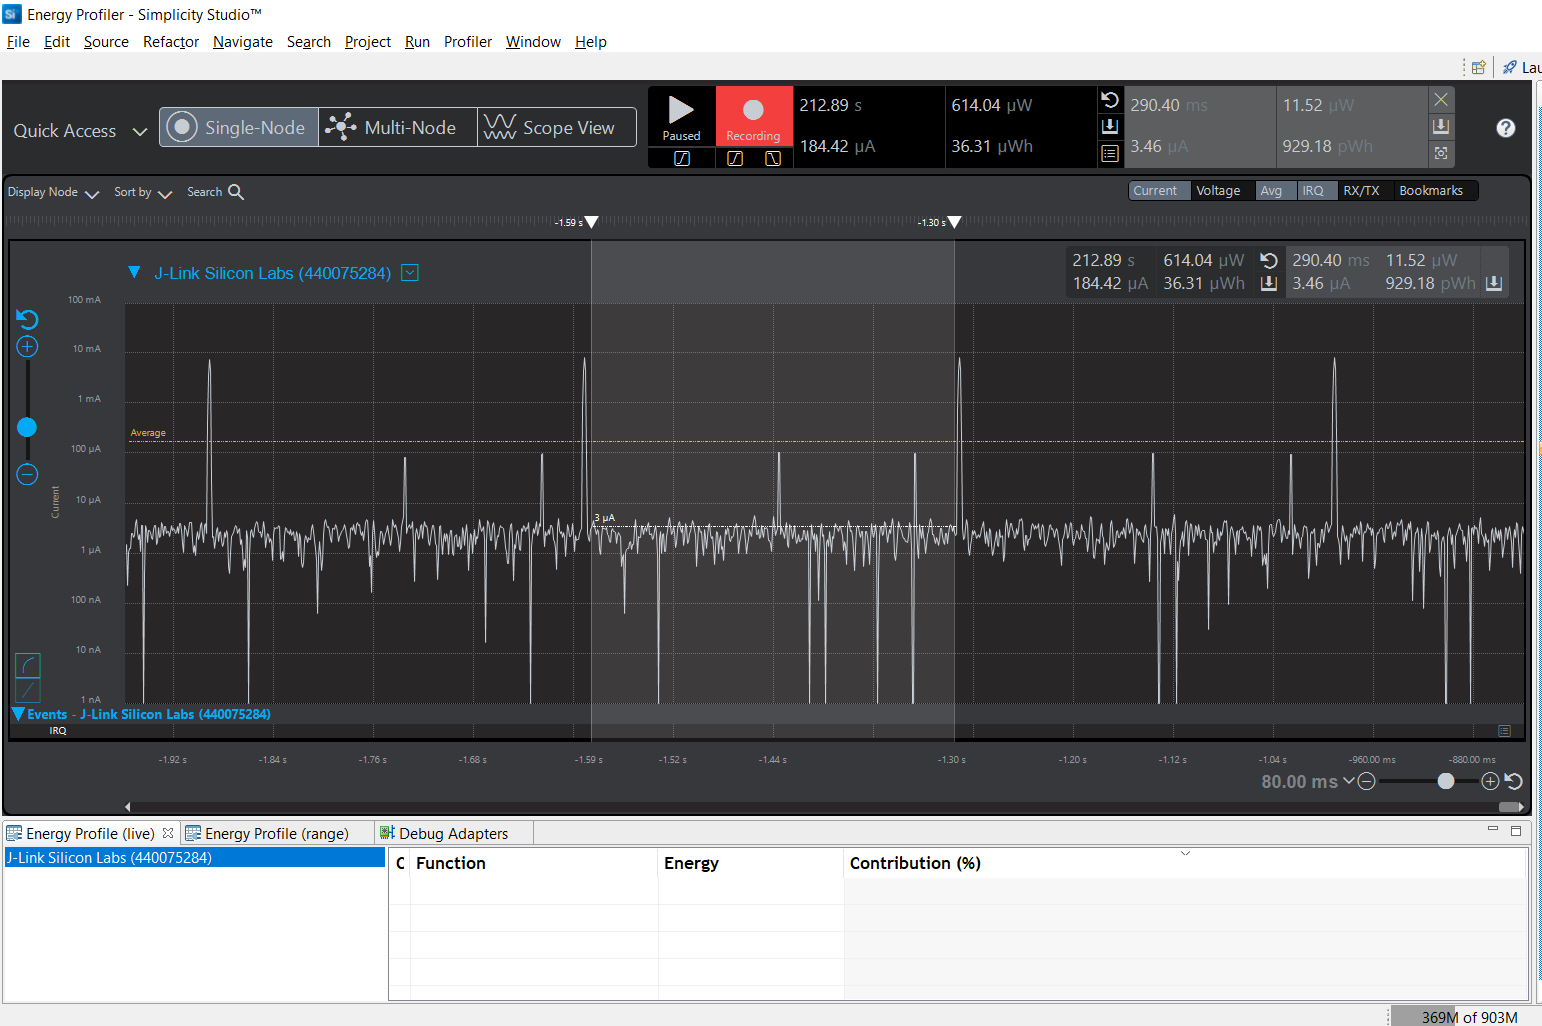
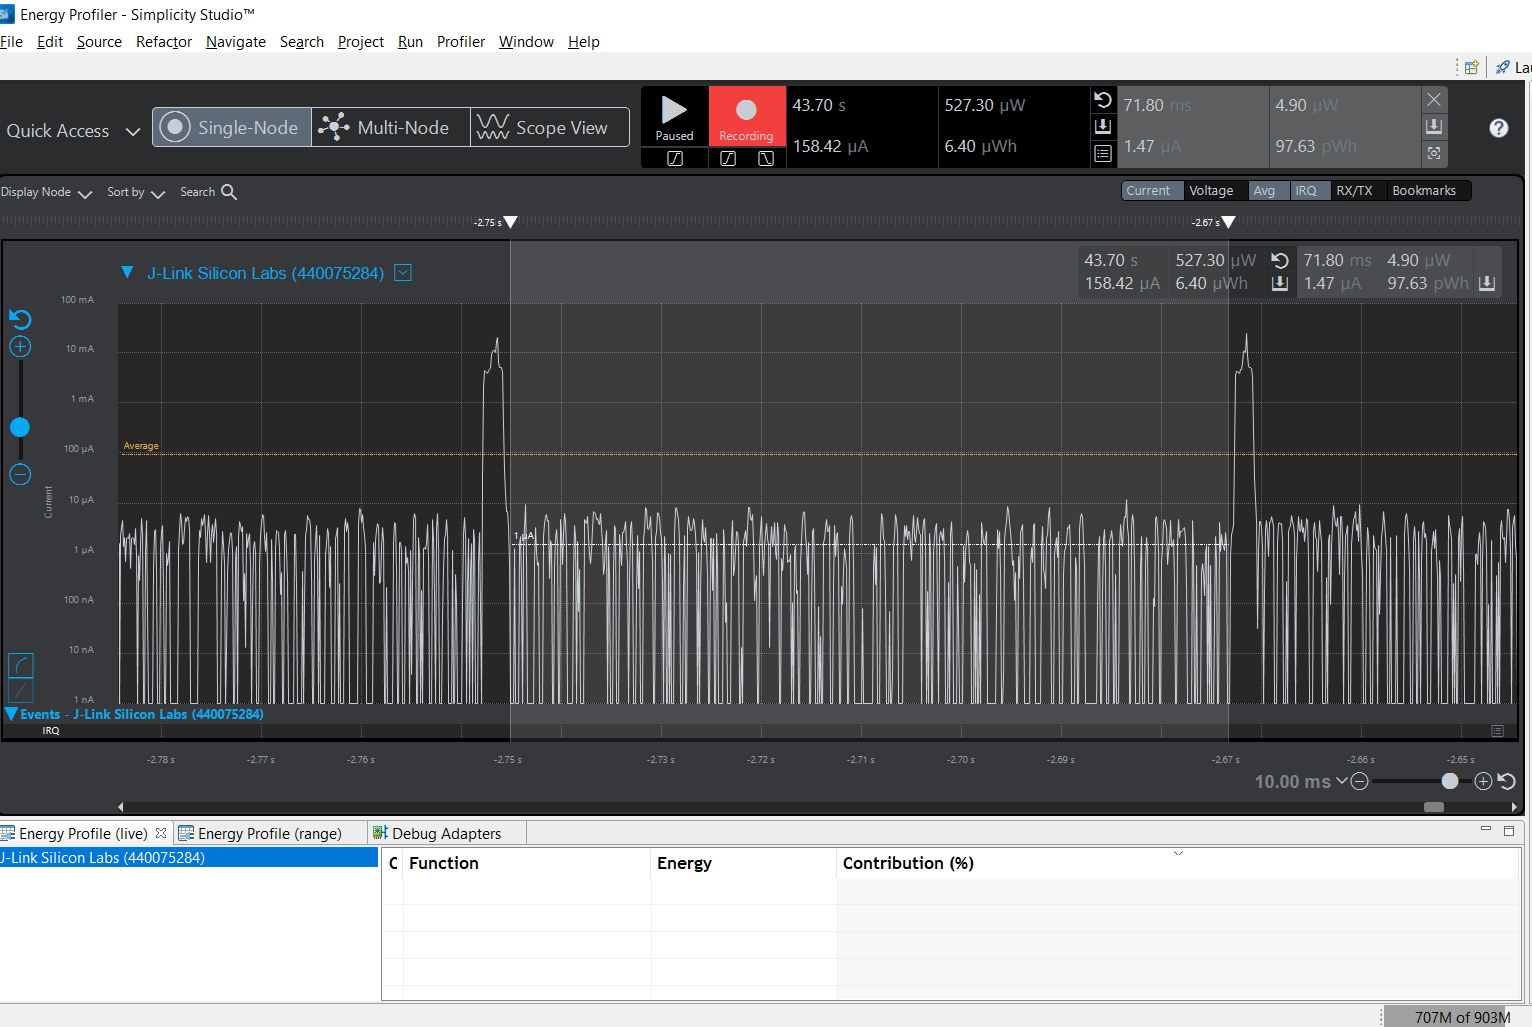
Added slave latency energy profiler trace and updated questions MD

diff --git a/questions/Assignment5-HealthThermometerProfile-BLE.md b/questions/Assignment5-HealthThermometerProfile-BLE.md
@@ -20,18 +20,19 @@ See [Mastering Markdown](https://guides.github.com/features/mastering-markdown/)
    ![peak_current_of_advertisement](screenshots/assignment5/peak_current_of_advertisement.PNG)  
 
 4. Provide screen shot showing the connection interval settings. Do they match the values you set in your slave(server) code or the master's(client) values?.
-   <br>Screenshot: 298mS. Yes, they do match as the Client acknowledges the connection parameters required by the Server. (300mS is the slave latency and most 
-   connection events are observed to occur at this time period. Occaisionally, the connection interval is noted to be 75mS.
+   <br>Screenshot: 75mS. Yes, they do match as the Client acknowledges the connection parameters required by the Server. (75mS is the connection interval
+	and slave latency is 300mS. Most connection events are observed to occur at this time period.
    ![connection_interval](screenshots/assignment5/connection_interval.PNG)  
 
 5. What is the average current between connection intervals?
-   Answer: 3.46uA.
+   Answer: 1.47uA.
    <br>Screenshot:  
    ![avg_current_between_connection_intervals](screenshots/assignment5/avg_current_between_connection_intervals.PNG)  
 
 6. If possible, provide screen shot verifying the slave latency matches what was reported when you logged the values from event = gecko_evt_le_connection_parameters_id. 
    <br>Screenshot:  Please refer to the last value in the screenshot. (Latency = 3 = 300mS)
-   ![slave_latency](screenshots/assignment5/slave_latency.PNG)  
+   ![slave_latency](screenshots/assignment5/slave_latency.PNG)
+   ![slave_latency_graph](screenshots/assignment5/slave_latency_graph.PNG)   
 
 7. What is the peak current of a data transmission when the phone is connected and placed next to the Blue Gecko? 
    Answer: 21.94mA.
